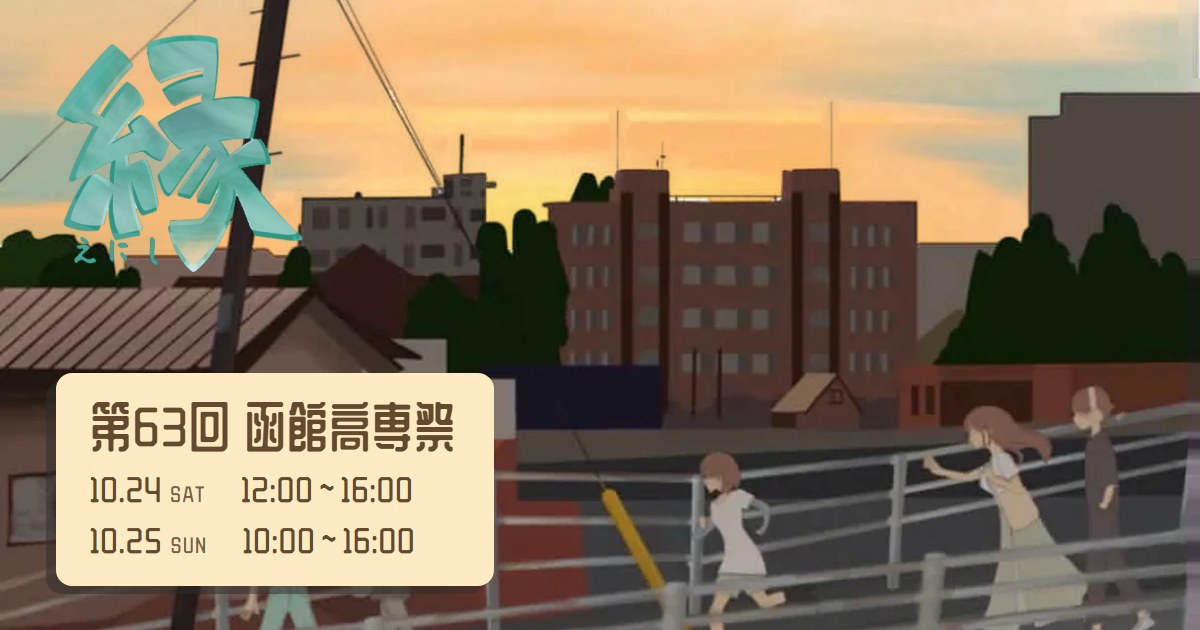
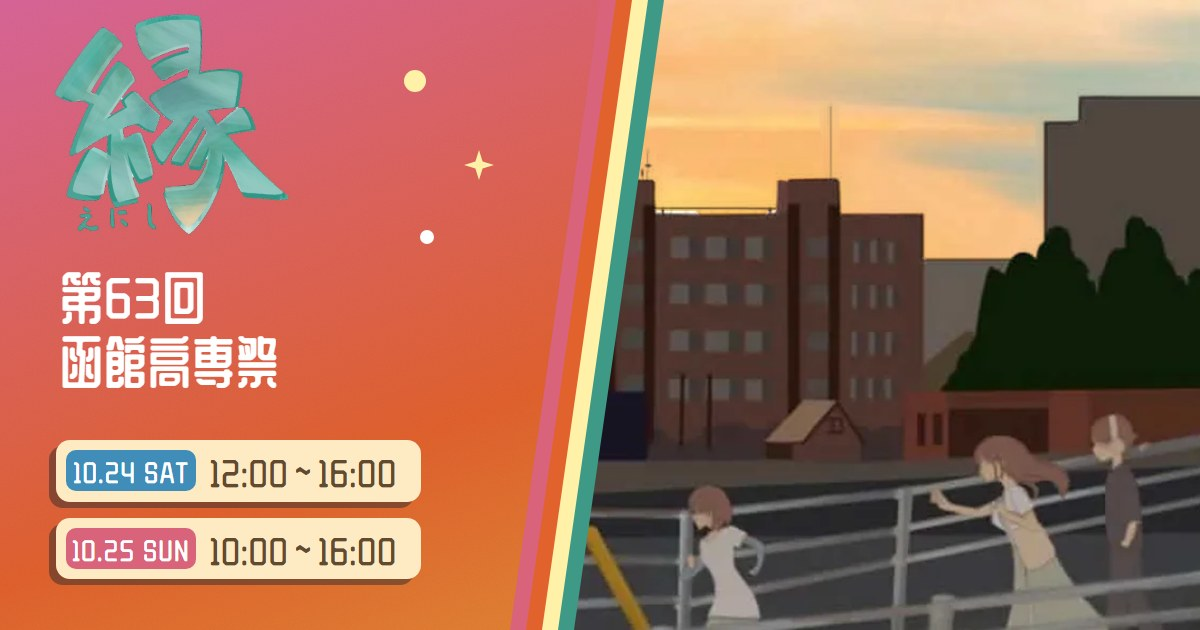
OGP画像を、Cをポップにした案に（サイトの色の面・斜めの色の帯・色つきの日付札）。案と作り方を design/ogp に残す

diff --git a/design/ogp/variants.html b/design/ogp/variants.html
@@ -2,7 +2,7 @@
 <html lang="ja">
 <head>
 <meta charset="utf-8">
-<!-- 共有したときに出る画像（OGP）の元。1200×630。tools/make-ogp.sh が、これを画像にして site/assets/img/ogp.jpg を作る（案は design/ogp/ に残してある。?v=a〜f で切りかえ） -->
+<!-- OGP の案。?v=a〜e で切りかえる（1200×630）。design/ogp/make-variants.sh が、画像にする -->
 <link href="https://fonts.googleapis.com/css2?family=WDXL+Lubrifont+JP+N&display=block&text=%E7%AC%AC63%E5%9B%9E%E5%87%BD%E9%A4%A8%E9%AB%98%E5%B0%82%E7%A5%AD%E3%81%88%E3%81%AB%E3%81%9710.24SAT12%3A00%EF%BD%9E16%3A0025SUN%E3%80%9C%E7%B8%81" rel="stylesheet">
 <style>
   html, body { margin: 0; width: 1200px; height: 630px; overflow: hidden; }
@@ -15,32 +15,32 @@
   .d { margin: 0; font-weight: 400; letter-spacing: .02em; line-height: 1.35; }
   .d small { margin-left: 8px; font-size: .62em; letter-spacing: .06em; }
   /* A：札（今、本番に出ているもの） */
-  .a .bg { background-image: url("../site/assets/img/scene.webp"), url("../site/assets/img/sky-sunset.webp"); background-size: 1200px auto; background-position: 0 -790px, 0 -790px; }
+  .a .bg { background-image: url("../../site/assets/img/scene.webp"), url("../../site/assets/img/sky-sunset.webp"); background-size: 1200px auto; background-position: 0 -790px, 0 -790px; }
   .a .logo { left: 56px; top: 34px; width: 250px; }
   .a .card { position: absolute; left: 56px; bottom: 44px; padding: 20px 38px 24px 34px; border-radius: 16px; background: #FEEBC4; box-shadow: -10px 8px 0 rgba(48, 44, 41, .5); }
   .a .t { font-size: 54px; margin-bottom: 10px; } .a .d { font-size: 35px; }
   /* B：「縁」を大きく。空のあいたところに、字だけ（面も影もなし）。字は白 */
-  .b .bg { background-image: url("../site/assets/img/scene.webp"), url("../site/assets/img/sky-sunset.webp"); background-size: 1200px auto; background-position: 0 -470px, 0 -470px; }
+  .b .bg { background-image: url("../../site/assets/img/scene.webp"), url("../../site/assets/img/sky-sunset.webp"); background-size: 1200px auto; background-position: 0 -470px, 0 -470px; }
   .b .logo { left: 60px; top: 26px; width: 360px; }
   .b .txt { position: absolute; left: 470px; top: 58px; color: #fff; }
   .b .t { font-size: 70px; line-height: 1.15; } .b .d { font-size: 44px; } .b .t + .d { margin-top: 22px; }
   .b .bar { position: absolute; left: 0; right: 0; bottom: 0; height: 18px; background: #634A2E; }
   /* C：左に紙の面、右に絵（きっぱり半分） */
-  .c .bg { left: 520px; background-image: url("../site/assets/img/scene.webp"), url("../site/assets/img/sky-sunset.webp"); background-size: 1100px auto; background-position: -240px -740px, -240px -740px; }
+  .c .bg { left: 520px; background-image: url("../../site/assets/img/scene.webp"), url("../../site/assets/img/sky-sunset.webp"); background-size: 1100px auto; background-position: -240px -740px, -240px -740px; }
   .c .paper { position: absolute; left: 0; top: 0; bottom: 0; width: 520px; background: #FEEBC4; }
   .c .logo { left: 70px; top: 50px; width: 290px; }
   .c .txt { position: absolute; left: 70px; bottom: 56px; }
   .c .t { font-size: 58px; margin-bottom: 14px; } .c .d { font-size: 38px; }
   .c .edge { position: absolute; left: 520px; top: 0; bottom: 0; width: 10px; background: #C8323A; }
   /* D：夕暮れ。ロゴと字を、いっぱいに。字は白、うすい面も影もなし */
-  .d4 .bg { background-image: url("../site/assets/img/scene.webp"), url("../site/assets/img/sky-dusk.webp"); background-size: 1200px auto; background-position: 0 -790px, 0 -790px; }
+  .d4 .bg { background-image: url("../../site/assets/img/scene.webp"), url("../../site/assets/img/sky-dusk.webp"); background-size: 1200px auto; background-position: 0 -790px, 0 -790px; }
   .d4 .logo { left: 70px; top: 40px; width: 300px; }
   .d4 .band { position: absolute; left: 0; right: 0; bottom: 0; height: 210px; background: #2b2347; }
   .d4 .txt { position: absolute; left: 70px; bottom: 26px; color: #fff; display: flex; align-items: flex-end; gap: 70px; }
   .d4 .t { font-size: 62px; line-height: 1.15; } .d4 .d { font-size: 38px; }
   .d4 .logo { top: 24px; width: 270px; }
   /* E：日付を大きく（遠くから読める）。下に一本、紙の帯 */
-  .e .bg { background-image: url("../site/assets/img/scene.webp"), url("../site/assets/img/sky-sunset.webp"); background-size: 1200px auto; background-position: 0 -700px, 0 -700px; }
+  .e .bg { background-image: url("../../site/assets/img/scene.webp"), url("../../site/assets/img/sky-sunset.webp"); background-size: 1200px auto; background-position: 0 -700px, 0 -700px; }
   .e .logo { left: 56px; top: 30px; width: 230px; }
   .e .band { position: absolute; left: 0; right: 0; bottom: 0; height: 190px; background: #FEEBC4; }
   .e .txt { position: absolute; left: 56px; right: 56px; bottom: 26px; display: flex; align-items: flex-end; justify-content: space-between; }
@@ -48,7 +48,7 @@
   .e .days { text-align: right; } .e .d { font-size: 44px; line-height: 1.3; }
   .e .band::before { content: ""; position: absolute; left: 0; right: 0; top: -10px; height: 10px; background: #C8323A; }
   /* C2：Cをポップに。サイトの色（ピンク→橙→黄）の面と、斜めの色の帯。字は白、日付は色のついた札。要素どうしは、重ねない */
-  .f .bg { background-image: url("../site/assets/img/scene.webp"), url("../site/assets/img/sky-sunset.webp"); background-size: 1300px auto; background-position: -70px -860px, -70px -860px; }
+  .f .bg { background-image: url("../../site/assets/img/scene.webp"), url("../../site/assets/img/sky-sunset.webp"); background-size: 1300px auto; background-position: -70px -860px, -70px -860px; }
   .f .stripe { position: absolute; inset: 0; }
   .f .panel { position: absolute; inset: 0; background: linear-gradient(160deg, #d9669b 0%, #e2622e 55%, #e3a43a 100%); clip-path: polygon(0 0, 600px 0, 510px 630px, 0 630px); }
   .f .s1 { background: #3E9A86; clip-path: polygon(0 0, 664px 0, 574px 630px, 0 630px); }
@@ -68,9 +68,9 @@
 </head>
 <body>
 <script>
-  const v = new URLSearchParams(location.search).get("v") || "f";
+  const v = new URLSearchParams(location.search).get("v") || "a";
   const D = `<p class="d">10.24<small>SAT</small>　12:00～16:00</p><p class="d">10.25<small>SUN</small>　10:00～16:00</p>`;
-  const L = `<img class="logo" src="../site/assets/img/logo.webp" alt="">`;
+  const L = `<img class="logo" src="../../site/assets/img/logo.webp" alt="">`;
   const T = `<h1 class="t">第63回 函館高専祭</h1>`;
   const html = {
     a: `<div class="bg"></div>${L}<div class="card">${T}${D}</div>`,

diff --git a/site/sw.js b/site/sw.js
@@ -8,7 +8,7 @@
 // - 混雑・お知らせ・みんなの声（Firestore）はしまわない（電波がないときは出ないだけ）
 // - staff/（本部用）はしまわない
 // 中身を大きく変えたときは VERSION を上げる（古いしまったものを消す）
-const VERSION = "kosen63-v242";
+const VERSION = "kosen63-v243";
 const CORE = [
   "./", "index.html", "map.html", "mido.html", "rally.html", "vote.html", "terms.html", "favicon.svg", "manifest.webmanifest",
   "assets/style.css", "assets/map.css",
